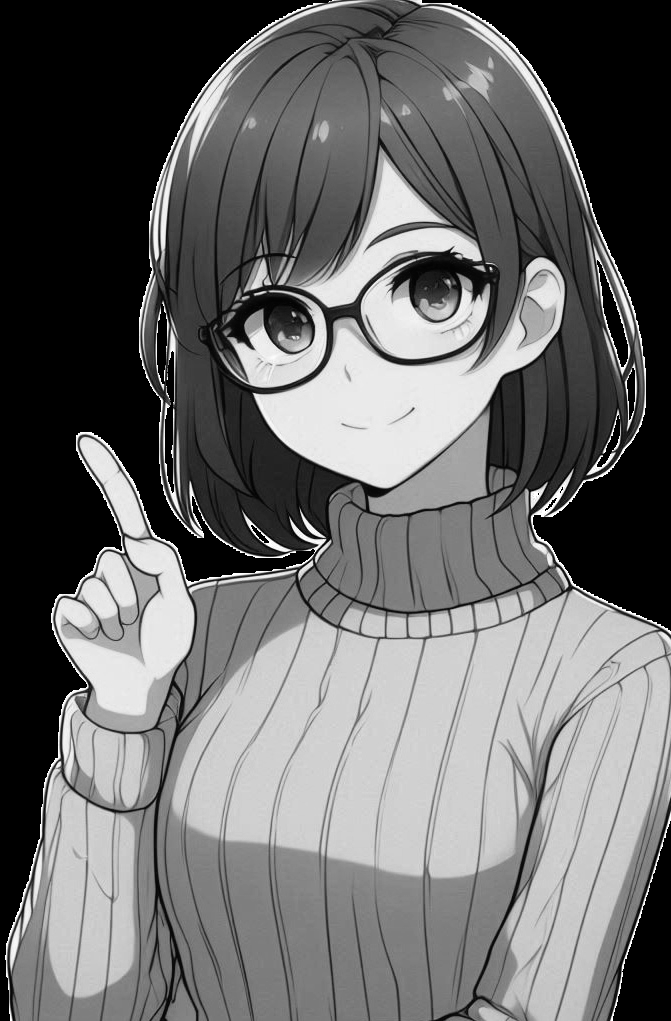
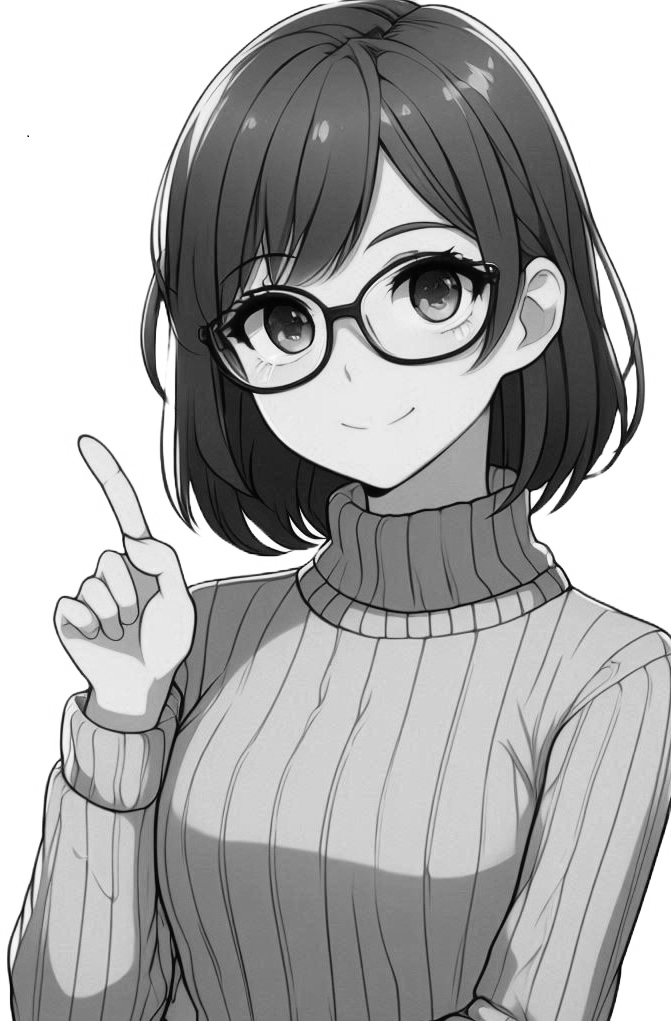
fix

Changed region(s): [[0.0, 0.0, 0.5067, 1.0], [0.6259, 0.0, 1.0, 0.6376], [0.8942, 0.7894, 1.0, 1.0]]

diff --git a/python/opencv/cascade/anime_face_detect1.py b/python/opencv/cascade/anime_face_detect1.py
@@ -2,7 +2,7 @@
 import cv2
 
 # 入力画像の読み込み
-img = cv2.imread("C:/github/sample/python/opencv/cascade/mina.png")
+img = cv2.imread("C:/github/sample/python/opencv/cascade/mina.jpg")
 
 # カスケード型識別器の読み込み
 cascade = cv2.CascadeClassifier(
